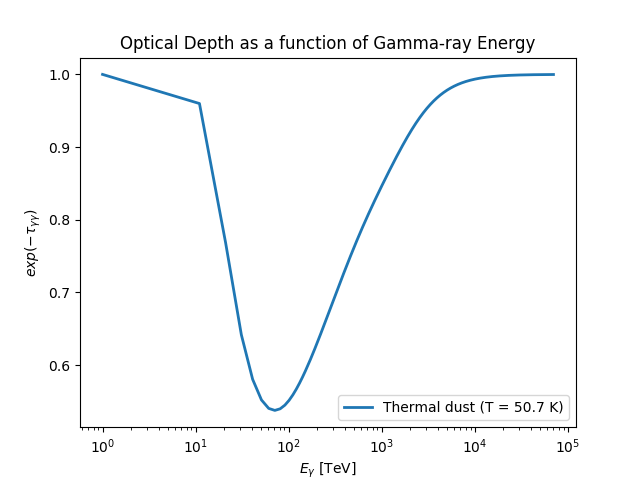
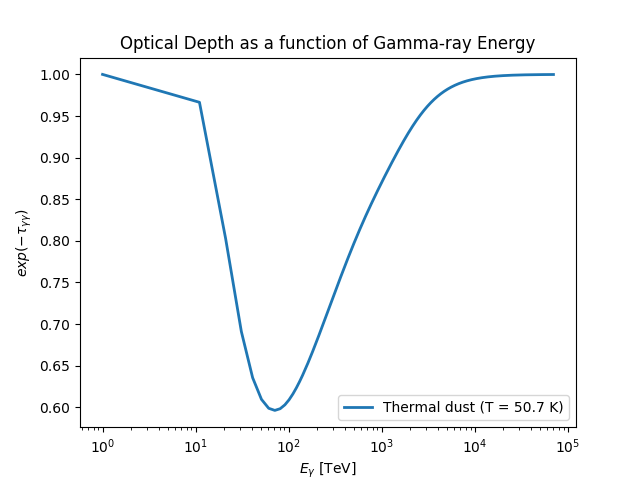
fixing minor things

diff --git a/cascade_rad/calc_opt_depth.py b/cascade_rad/calc_opt_depth.py
@@ -86,7 +86,7 @@ class EMCascade(object):
         """
         s = e * E
         beta = sqrt(1 - (1. / s))
-        norm = 0.6 * _sigma_T * (1 - beta ** 2)
+        norm = 0.5 * _sigma_T * (1 - beta ** 2)
         t1 = (3 - beta ** 4) * log((1 + beta) / (1 - beta))
         t2 = 2 * beta * (2 - beta ** 2)
         return norm * (t1 - t2)
